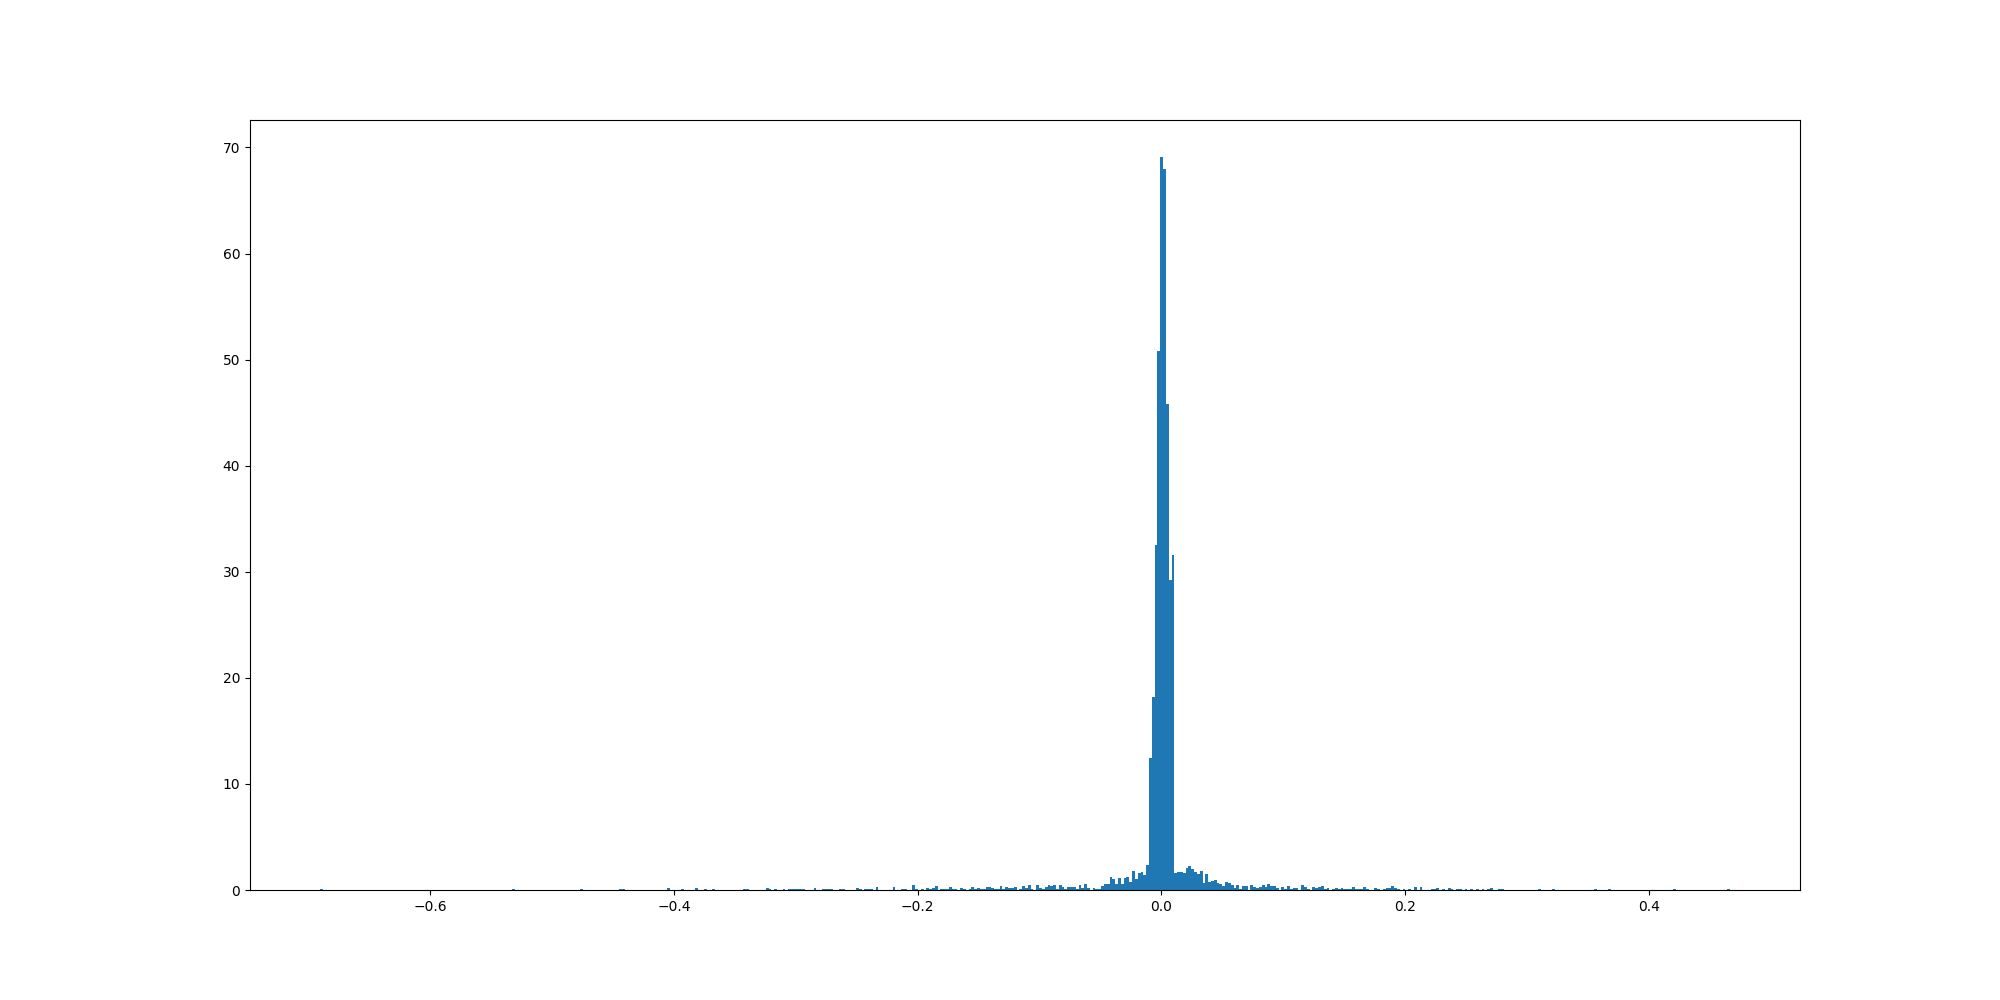
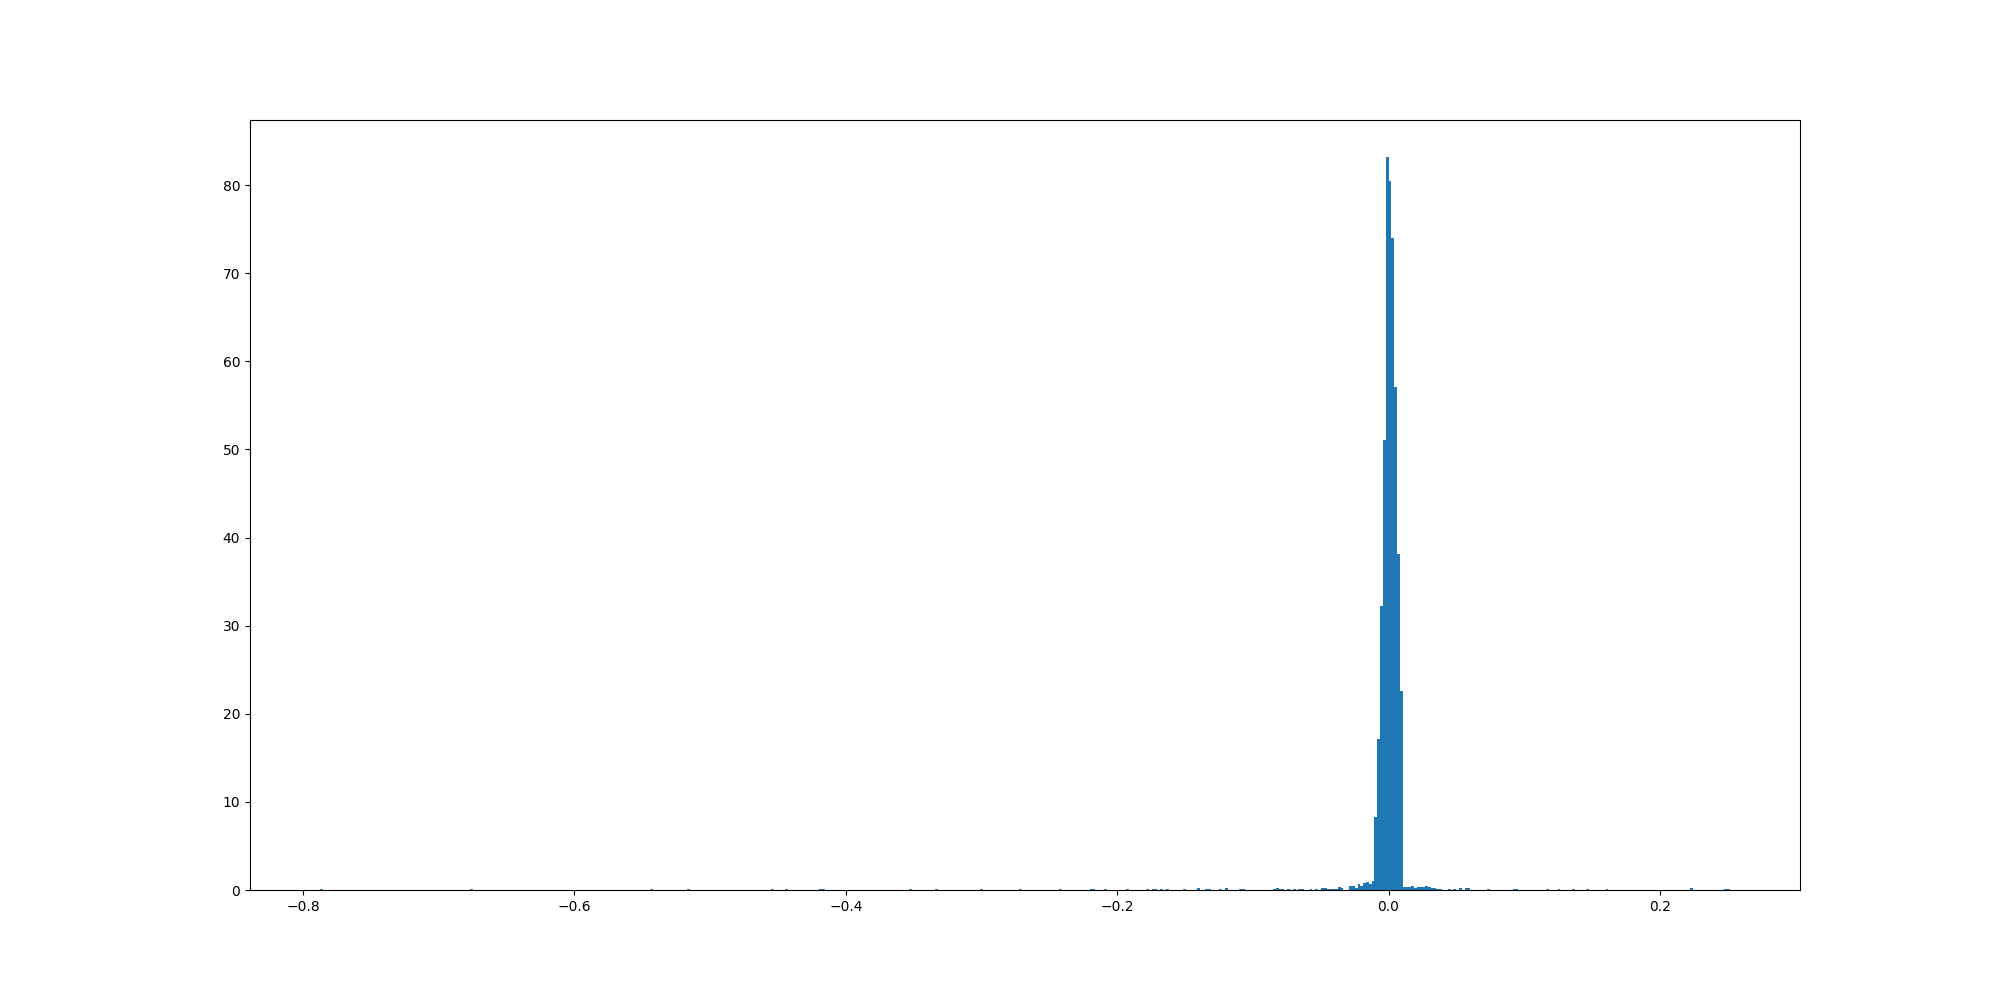
Changes: 	- Add configs needed to run experiments

Changed region(s): [[0.682, 0.248, 0.713, 0.899], [0.527, 0.341, 0.62, 0.899]]

diff --git a/Models/BaseModel.py b/Models/BaseModel.py
@@ -70,17 +70,19 @@ class BaseModel(ap.Model):
             u = list()
             for i in range(20, len(prices) - 1):
                 u.append(np.log(prices[i + 1] / prices[i]))
-            figure1 = plt.figure(1, figsize=(20, 10))
-            plt.hist(u, 500, density=True)
-            plt.savefig(f"run_results/{self.p.model_name}/{self.p.steps}_price_hist.png")
-            plt.close(figure1)
-            figure2 = plt.figure(1, figsize=(20, 10))
-            plt.hist(u, 500, density=True)
-            plt.yscale('log')
-            plt.savefig(f"run_results/{self.p.model_name}/{self.p.steps}_price_hist_log.png")
-            plt.close(figure2)
-            figure3 = plt.figure(1, figsize=(max(self.p.steps // 100, 50), 15))
-            plt.plot(prices, "bo-")
-            plt.savefig(f"run_results/{self.p.model_name}/{self.p.steps}_price_plot.png")
-            plt.close(figure3)
+            if self.p.draw_hists:
+                figure1 = plt.figure(1, figsize=(20, 10))
+                plt.hist(u, 500, density=True)
+                plt.savefig(f"run_results/{self.p.model_name}/{self.p.steps}_price_hist.png")
+                plt.close(figure1)
+                figure2 = plt.figure(1, figsize=(20, 10))
+                plt.hist(u, 500, density=True)
+                plt.yscale('log')
+                plt.savefig(f"run_results/{self.p.model_name}/{self.p.steps}_price_hist_log.png")
+                plt.close(figure2)
+            if self.p.draw_plots:
+                figure3 = plt.figure(1, figsize=(max(self.p.steps // 100, 50), 15))
+                plt.plot(prices, "bo-")
+                plt.savefig(f"run_results/{self.p.model_name}/{self.p.steps}_price_plot.png")
+                plt.close(figure3)
 
